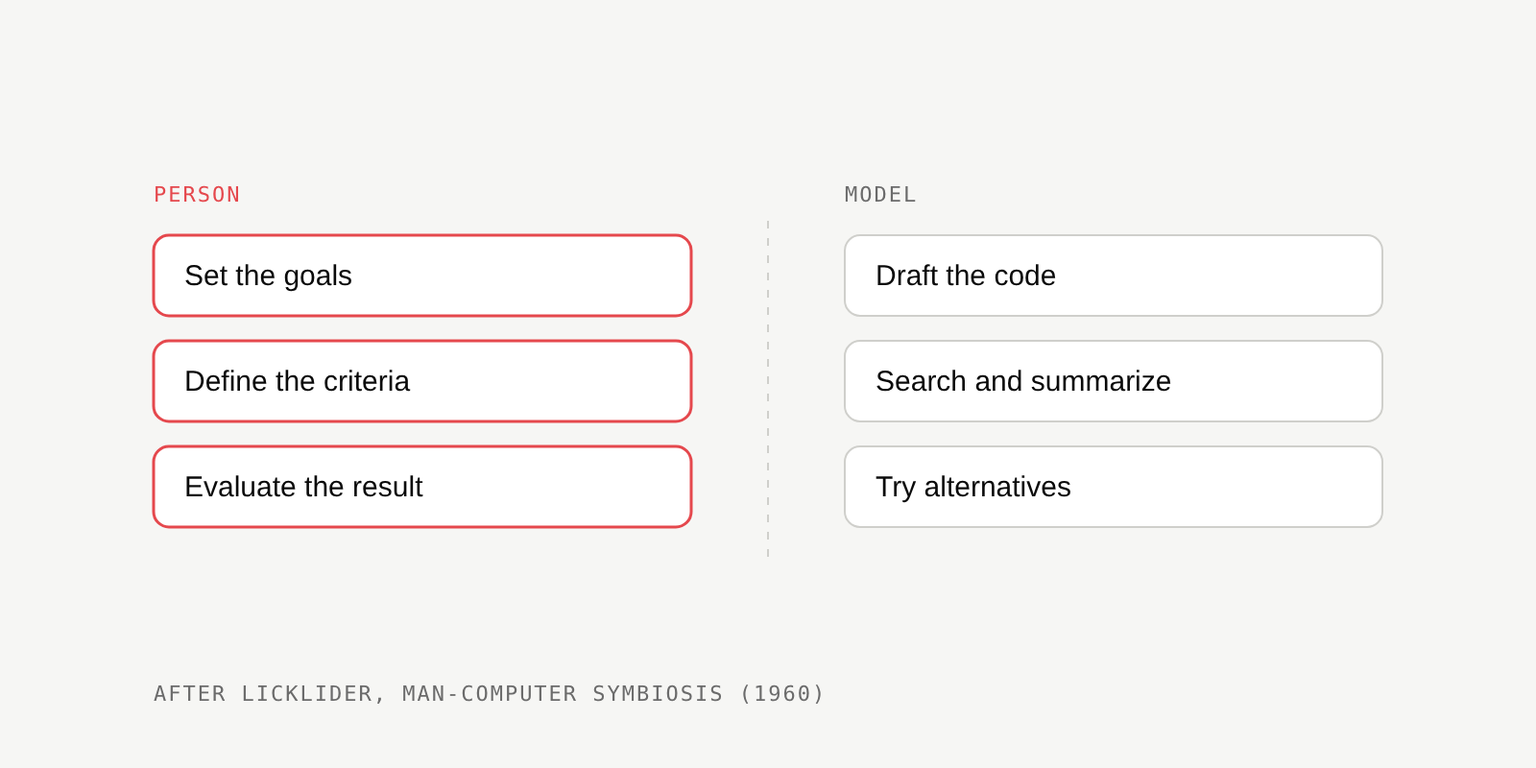
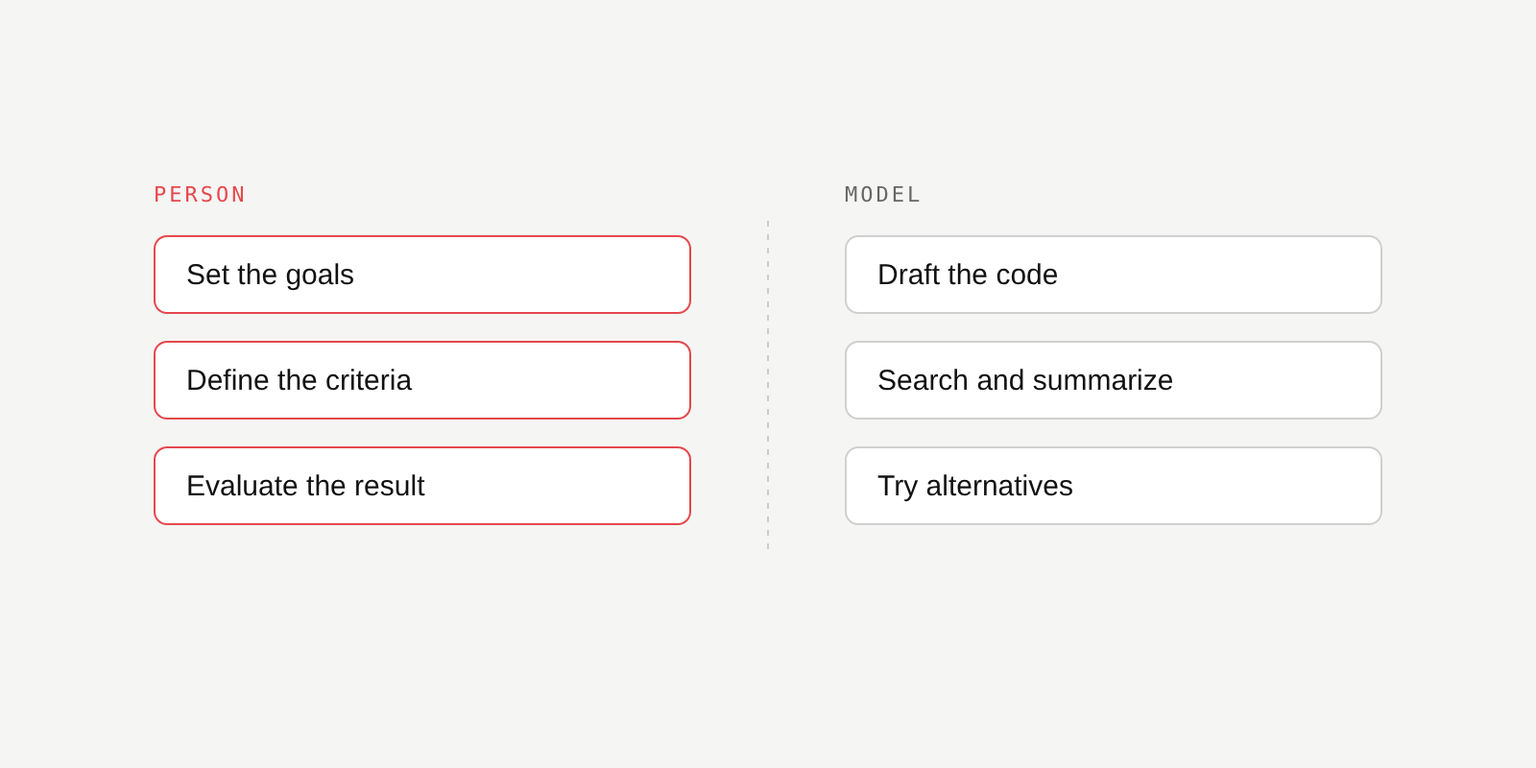
Blog: rewrite AI post in a casual voice, add Managed Agents post
Claude-Session: https://claude.ai/code/session_01K7XUSZr6t1E4M8D6w9ZakD

diff --git a/content/blog/ai-changed-where-i-spend-my-time.pt.md b/content/blog/ai-changed-where-i-spend-my-time.pt.md
@@ -1,43 +1,37 @@
-Hoje quase todo código que entra nos meus projetos passa por um modelo antes de passar por mim. E nunca trabalhei tanto com a cabeça. A IA não diminuiu o trabalho: ela tirou o gargalo do teclado e colocou na decisão. Digitar ficou barato. Decidir o que vale a pena escrever ficou caro.
+Hoje quase toda linha de código que entra nos meus projetos passa por um modelo antes de passar por mim. Dá para achar que isso significa trabalhar menos. É o contrário: nunca trabalhei tanto com a cabeça. Digitar ficou barato. Decidir o que vale a pena digitar ficou caro.
 
 ## Rápido no novo, lento no antigo
 
-Em 1975, Fred Brooks escreveu a lei mais citada da engenharia de software: "Adding manpower to a late software project makes it later." (*The Mythical Man-Month*).
+Imagina contratar alguém ótimo no que faz, mas que esquece tudo de um dia para o outro. Toda manhã você explica o projeto do zero, onde fica cada coisa e por que existe aquela regra estranha. Trabalhar com um modelo de IA é isso. O Fred Brooks percebeu algo parecido décadas atrás, quando disse que colocar mais gente num projeto de software atrasado só atrasa mais: quem chega precisa aprender o contexto, e quem já está lá para tudo para explicar.
 
-A razão é que quem chega precisa aprender o contexto, e quem já está no projeto para de trabalhar para explicar. Um modelo de IA é o colega que chega todo dia sem lembrar de nada.
-
-No meu dia a dia é exatamente assim. Um script de migração ou um componente novo sai em minutos, porque não depende de história nenhuma. Uma mudança numa regra antiga do meu SaaS, que depende de decisões tomadas anos atrás, demora o mesmo tempo de sempre, só que agora eu gasto esse tempo explicando o contexto e lendo o que o modelo escreveu.
+No meu dia a dia é exatamente assim. Um script de migração ou um componente novo sai em minutos, porque não depende de história nenhuma. Mudar uma regra antiga do meu SaaS, que depende de decisões tomadas anos atrás, leva o mesmo tempo de sempre. A diferença é que agora eu gasto esse tempo explicando contexto e lendo o que o modelo escreveu.
 
 ## O gargalo saiu do teclado
 
-Brian Kernighan avisou, ainda nos anos 70, onde mora o trabalho difícil: "Everyone knows that debugging is twice as hard as writing a program in the first place." (Brian Kernighan e P. J. Plauger, *The Elements of Programming Style*, 1978).
+Pensa em cozinhar com um amigo que pica tudo em dois minutos. O jantar não fica pronto mais rápido se você ainda precisa conferir cada pedaço para ver se ele cortou do jeito que a receita pedia. Picar ficou barato; conferir, não.
 
-Com IA, escrever quase não custa nada. O que sobra é ler, entender e consertar, que é justamente a parte difícil.
+Com código é igual. O Brian Kernighan dizia que todo mundo sabe que depurar é duas vezes mais difícil do que escrever o programa. Com IA, escrever quase não custa nada. O que sobra é ler, entender e consertar, que sempre foi a parte difícil.
 
 ![Página do diário do Harvard Mark II de 1947 com uma mariposa colada, o primeiro "bug" registrado](img:bug "O primeiro bug documentado, em 1947: alguém precisou encontrar")
 
-Minha rotina mudou de acordo. Antes eu abria o editor e começava a digitar. Hoje eu abro um diff de 300 linhas e preciso decidir, linha por linha, se aquilo é o que eu queria. Revisar bem exige saber como o código deveria ser antes de ver como ele está.
+Então minha rotina inverteu. Antes eu abria o editor e começava a digitar. Hoje eu abro um diff de 300 linhas e decido, linha por linha, se aquilo é o que eu queria. E só dá para revisar bem quando você sabe como o código deveria ser antes de ver como ele está.
 
-## Especificar virou a habilidade principal
+## Pedir bem virou a habilidade principal
 
-Brooks de novo, em 1986, muito antes de qualquer modelo de linguagem: "The hardest single part of building a software system is deciding precisely what to build." (*No Silver Bullet*).
+Já pediu para alguém "trazer alguma coisa para o jantar" e recebeu uma pizza congelada? Ninguém errou; você é que não foi claro. O modelo é assim: faz exatamente o que você pediu, mesmo quando você pediu mal. O Brooks também dizia que a parte mais difícil de construir software é decidir exatamente o que construir, e ele disse isso muito antes de alguém conversar com um modelo de linguagem.
 
-O modelo faz exatamente o que você pediu, inclusive quando você pediu errado. Um pedido vago volta como código plausível e genérico. Um pedido com contexto, restrições e um exemplo do resultado volta muito perto do que eu escreveria.
-
-Um exemplo concreto: quando peço "cria um endpoint de exportação", recebo algo genérico. Quando escrevo "exporta as faturas do mês em CSV, só para o dono da conta, em streaming para não estourar memória, e com o mesmo formato de data do relatório atual", recebo algo que entra no projeto com poucos ajustes. A diferença está no texto, não no modelo.
+Um exemplo real: quando peço "cria um endpoint de exportação", recebo algo genérico. Quando escrevo "exporta as faturas do mês em CSV, só para o dono da conta, em streaming para não estourar memória, e com o mesmo formato de data do relatório atual", recebo algo que entra no projeto com poucos ajustes. O modelo é o mesmo. O que mudou foi o texto.
 
 ## Onde eu não deixo a IA decidir
 
-Em 1960, J. C. R. Licklider imaginou a parceria entre pessoas e computadores e deixou claro quem fazia o quê: "Men will set the goals and supply the motivations" (*Man-Computer Symbiosis*).
-
-O modelo escreve com a mesma confiança quando acerta e quando erra, e é fácil confundir confiança com correção. Por isso a parte de definir o objetivo e julgar o resultado continua comigo.
+O modelo fala com a mesma confiança quando acerta e quando erra, igual aquele amigo que te passa o caminho com toda a certeza do mundo e te manda para o outro lado da cidade. É fácil confundir confiança com estar certo. O J. C. R. Licklider, que imaginou essa parceria entre pessoas e computadores quando computador ainda ocupava uma sala inteira, já tinha a divisão clara: as pessoas definem os objetivos e dão a motivação, a máquina faz o resto.
 
 ![Diagrama: a pessoa define objetivos, critérios e avaliação; o modelo rascunha, pesquisa e testa alternativas](img:goals "A divisão de Licklider aplicada ao meu dia a dia")
 
-Na prática tenho três regras. Esquema de banco e fronteiras entre serviços eu desenho primeiro, porque errar ali custa meses. Autenticação, permissões e qualquer coisa que toca dinheiro eu leio linha por linha. E código que eu não consigo explicar não entra, por mais que os testes passem.
+Na prática tenho três regras. Esquema de banco e fronteiras entre serviços eu desenho primeiro, e eu mesmo, porque errar ali custa meses. Autenticação, permissões e qualquer coisa que toca dinheiro eu leio linha por linha. E código que eu não consigo explicar não entra, por mais que os testes passem.
 
 ## Quando isso não vale
 
-Em código pequeno e descartável, revisar com esse cuidado é exagero: aceita, roda, joga fora. E para quem está começando, delegar cedo demais pula a parte que ensina. A IA acelera quem já sabe aonde quer chegar; quem ainda não sabe, ela leva com muita confiança na direção errada.
+Em código pequeno e descartável, esse cuidado todo é exagero. Um script para renomear um monte de arquivos? Aceita, roda, joga fora. E para quem está começando, entregar tudo cedo demais pula justamente a parte que ensina. A IA acelera quem já sabe aonde quer chegar. Quem ainda não sabe, ela leva para o lado errado, com muita confiança.
 
 No fim, a régua subiu. Escrever código deixou de ser o diferencial. Saber o que pedir, perceber o que está errado e dizer não continua sendo trabalho de gente.

diff --git a/content/blog/ai-changed-where-i-spend-my-time.en.md b/content/blog/ai-changed-where-i-spend-my-time.en.md
@@ -1,43 +1,37 @@
-Almost all the code that lands in my projects now goes through a model before it goes through me. And I've never worked this much with my head. AI didn't shrink the work: it moved the bottleneck from the keyboard to the decision. Typing got cheap. Deciding what's worth writing got expensive.
+These days almost every line of code that lands in my projects goes through a model before it goes through me. You'd think that means I work less. It's the opposite: I've never worked this much with my head. Typing got cheap. Deciding what's worth typing got expensive.
 
 ## Fast on new code, slow on old code
 
-In 1975, Fred Brooks wrote the most quoted law in software engineering: "Adding manpower to a late software project makes it later." (*The Mythical Man-Month*).
+Picture hiring someone who's great at the job but forgets everything overnight. Every morning you explain the project from scratch, where things live and why that weird rule exists. That's working with an AI model. Fred Brooks noticed something close to this decades ago, when he said that adding people to a late software project only makes it later: whoever arrives has to learn the context, and whoever's already there stops to explain it.
 
-The reason is that newcomers have to learn the context, and the people already on the project stop working to explain it. An AI model is the colleague who shows up every day remembering nothing.
-
-That's exactly my day. A migration script or a new component takes minutes, because it doesn't depend on any history. A change to an old rule in my SaaS, one that depends on decisions made years ago, takes as long as it always did, except now I spend that time explaining context and reading what the model wrote.
+That's exactly how my day goes. A migration script or a new component takes minutes, because it doesn't depend on any history. Changing an old rule in my SaaS, one that rests on decisions made years ago, takes as long as it always did. The difference is that now I spend that time explaining context and reading what the model wrote.
 
 ## The bottleneck left the keyboard
 
-Brian Kernighan warned back in the 70s where the hard work lives: "Everyone knows that debugging is twice as hard as writing a program in the first place." (Brian Kernighan and P. J. Plauger, *The Elements of Programming Style*, 1978).
+Think of cooking with a friend who chops everything in two minutes. Dinner doesn't get ready any faster if you still have to check every piece to see if they cut it the way the recipe asked. The chopping got cheap; the checking didn't.
 
-With AI, writing costs almost nothing. What's left is reading, understanding and fixing, which is exactly the hard part.
+Code works the same way. Brian Kernighan used to say that everyone knows debugging is twice as hard as writing the program in the first place. With AI, writing costs almost nothing. What's left is reading, understanding and fixing, which was always the hard part.
 
 ![A 1947 page from the Harvard Mark II logbook with a moth taped to it, the first recorded "bug"](img:bug "The first documented bug, 1947: someone had to find it")
 
-My routine changed accordingly. I used to open the editor and start typing. Now I open a 300-line diff and have to decide, line by line, whether it's what I wanted. Reviewing well means knowing what the code should look like before you see what it does look like.
+So my routine flipped. I used to open the editor and start typing. Now I open a 300-line diff and decide, line by line, whether it's what I wanted. And you can only review well if you know what the code should look like before you see what it actually looks like.
 
-## Writing the spec is the main skill now
+## Asking well is the main skill now
 
-Brooks again, in 1986, long before any language model: "The hardest single part of building a software system is deciding precisely what to build." (*No Silver Bullet*).
+Ever asked someone to "grab something for dinner" and got back a frozen pizza? Nobody did anything wrong; you just weren't clear. The model is like that: it does exactly what you asked, even when you asked badly. Brooks also said the hardest single part of building software is deciding precisely what to build, and he said it long before anyone was chatting with a language model.
 
-The model does exactly what you asked, including when you asked wrong. A vague prompt comes back as plausible, generic code. A prompt with context, constraints and an example of the result comes back very close to what I'd have written.
-
-A concrete example: when I ask for "an export endpoint", I get something generic. When I write "export this month's invoices as CSV, account owner only, streamed so it doesn't blow up memory, using the same date format as the current report", I get something that goes into the project with few changes. The difference is in the text, not in the model.
+A real example: when I ask for "an export endpoint", I get something generic. When I write "export this month's invoices as CSV, account owner only, streamed so it doesn't blow up memory, using the same date format as the current report", I get something that goes into the project with few changes. Same model. What changed was the text.
 
 ## Where I don't let AI decide
 
-In 1960, J. C. R. Licklider imagined a partnership between people and computers and was clear about who did what: "Men will set the goals and supply the motivations" (*Man-Computer Symbiosis*).
-
-The model writes with the same confidence when it's right and when it's wrong, and it's easy to mistake confidence for correctness. That's why setting the goal and judging the result stays with me.
+The model talks with the same confidence when it's right and when it's wrong, like that friend who gives you directions with total certainty and sends you to the wrong side of town. It's easy to mistake confidence for being correct. J. C. R. Licklider, who imagined this partnership between people and computers back when computers filled entire rooms, already had the split clear: people set the goals and supply the motivation, the machine does the rest.
 
 ![Diagram: the person sets goals, criteria and evaluation; the model drafts, searches and tries alternatives](img:goals "Licklider's split, applied to my day")
 
-In practice I keep three rules. I design the database schema and service boundaries first, because mistakes there cost months. Auth, permissions and anything that touches money, I read line by line. And code I can't explain doesn't ship, no matter how green the tests are.
+In practice I keep three rules. I design the database schema and the boundaries between services myself, first, because a mistake there costs months. Auth, permissions and anything that touches money, I read line by line. And code I can't explain doesn't ship, no matter how green the tests are.
 
 ## When this doesn't apply
 
-For small, throwaway code, reviewing this carefully is overkill: accept it, run it, delete it. And if you're just starting out, delegating too early skips the part that teaches you. AI speeds up people who already know where they're going; people who don't, it takes confidently in the wrong direction.
+For small, throwaway code, all this care is overkill. A script to rename a pile of files? Accept it, run it, delete it. And if you're just starting out, handing everything over too early skips the part that actually teaches you. AI speeds up people who already know where they're going. People who don't, it takes in the wrong direction, very confidently.
 
 In the end, the bar went up. Writing code stopped being the edge. Knowing what to ask for, spotting what's wrong and saying no is still a human job.

diff --git a/content/blog/keep-the-brain-away-from-the-hands.pt.md b/content/blog/keep-the-brain-away-from-the-hands.pt.md
@@ -1,0 +1,51 @@
+Eu estava lendo o post de engenharia da Anthropic sobre os Managed Agents, aquele com o subtítulo "desacoplando o cérebro das mãos", e no meio do texto parei para reler um parágrafo. Ele conta de uma correção que o time fez para um modelo antigo, e de como essa correção virou peso morto quando chegou um modelo mais novo. É o tipo de coisa que eu normalmente só percebo no meu próprio código meses depois. Então aqui vai o que ficou comigo, como alguém que constrói um SaaS e roda tudo na própria VPS.
+
+## O harness envelhece
+
+O harness é o loop em volta do modelo: chama o Claude, lê a resposta, executa as ferramentas que ele pediu e devolve os resultados. Todo harness carrega palpites sobre o que o modelo ainda não consegue fazer.
+
+O post dá um exemplo claro. Com o Claude Sonnet 4.5, o time viu o que chamou de "ansiedade de contexto": o modelo encerrava as tarefas antes da hora quando sentia a janela de contexto enchendo. Então eles colocaram resets de contexto no harness. No Claude Opus 4.5 o comportamento sumiu, e os resets viraram só código que ninguém mais precisava.
+
+A resposta do post não é um harness mais esperto. É um conjunto pequeno de interfaces que fica parado enquanto os harnesses por trás delas continuam mudando, que é bem o que o John Gall quis dizer quando falou que todo sistema complexo que funciona nasceu de um sistema simples que funcionava. Eles até comparam com um sistema operacional: "processo" e "arquivo" sobreviveram a todo hardware em que já rodaram.
+
+## Cérebro, mãos e um log
+
+O desenho divide um agente em três partes:
+
+- **Sessão**: um log só de escrita no final (append-only) com tudo o que aconteceu.
+- **Harness** (o cérebro): o loop que chama o modelo e encaminha as chamadas de ferramenta.
+- **Sandbox** (as mãos): onde o código roda e os arquivos são editados.
+
+![Diagrama: o harness lê e escreve no log da sessão e chama sandboxes e ferramentas por uma única interface execute](img:diagram "Cérebro, mãos e log, cada um trocável sozinho")
+
+Nos Managed Agents, toda mão parece igual para o cérebro: `execute(name, input) → string`. Um container, um servidor MCP ou, no exemplo deles, um emulador de Pokémon, todos atrás da mesma assinatura. Pensa numa tomada: você liga o carregador do celular, a chaleira ou o abajur, e a parede não quer saber qual é. O Aristóteles chamava a mão de "o instrumento dos instrumentos", e é exatamente esse o papel dela aqui.
+
+## Gado, não pet
+
+A primeira versão colocava as três partes num container só. Quem cuida de servidor sabe como isso termina. O container vira um pet: se ele morre, a sessão vai junto, e alguém precisa cuidar dele até voltar sem poder olhar dentro, porque ele guarda dados de usuário.
+
+Depois da separação, o container é gado. Se ele morre, o erro volta para o Claude como uma chamada de ferramenta que falhou, e um novo é criado. O harness também é gado: como o log fica fora dele, um harness novo chama `wake(sessionId)`, lê os eventos e continua do último.
+
+É a mesma regra que eu daria para qualquer um que roda o próprio servidor: o estado fica no banco e nos backups, nunca na máquina. Ver isso aplicado a agentes fez o desenho fazer sentido na hora.
+
+## As chaves ficam fora da sandbox
+
+No desenho acoplado, o código que o Claude escrevia rodava do lado das credenciais. Bastava um prompt injection que convencesse o modelo a ler o próprio ambiente.
+
+É como dar para a diarista uma senha da fechadura em vez de uma cópia da sua chave. A correção é estrutural. O token do git clona o repositório quando a sandbox começa e fica dentro do remote, então push e pull funcionam sem o agente nunca ver o token. Os tokens de MCP ficam num cofre e passam por um proxy. Nas palavras do post, "o harness nunca fica sabendo de nenhuma credencial."
+
+O Benjamin Franklin brincava que três pessoas conseguem guardar um segredo se duas delas estiverem mortas. Aqui ninguém precisa morrer: o agente não vaza um token que nunca viu. Gosto disso porque não depende do modelo se comportar bem. Tira dele a chance de se comportar mal.
+
+## O log não é a janela de contexto
+
+A parte que achei mais interessante é a diferença entre a sessão e a janela de contexto. Compactar e cortar contexto são decisões sem volta: você joga algo fora hoje sem saber se vai precisar amanhã. Nos Managed Agents, o log guarda tudo, e o harness escolhe o que entra na janela, com o `getEvents()` podendo ler pedaços, voltar e reler o que levou a um momento.
+
+Guardar é um trabalho e gerenciar contexto é outro. O primeiro precisa ser durável. O segundo pode mudar a cada modelo novo.
+
+## E ficou mais rápido
+
+Tirar o harness do container também deixou tudo mais rápido. Antes, toda sessão esperava um container subir, mesmo que nunca fosse usar. Agora o container só sobe quando uma ferramenta pede. O time conta que o tempo até o primeiro token caiu cerca de 60% na mediana e mais de 90% no p95.
+
+## O que eu levo disso
+
+Se eu fosse resumir numa linha: seja rígido no formato das interfaces e tranquilo com o que roda atrás delas. Vale para agentes e vale para o resto da stack. O modelo vai mudar, o harness vai mudar, a sandbox vai mudar. O log e o contrato entre eles são o que deve ficar.

diff --git a/content/blog/keep-the-brain-away-from-the-hands.en.md b/content/blog/keep-the-brain-away-from-the-hands.en.md
@@ -1,0 +1,51 @@
+I was reading Anthropic's engineering post on Managed Agents, the one with the subtitle "decoupling the brain from the hands", and halfway through I stopped to reread a paragraph. It describes a fix the team made for an old model, and how that fix turned into dead weight when a newer model arrived. That's the kind of thing I usually only notice in my own code months later. So here's what stuck with me, as someone who builds a SaaS and runs it on my own VPS.
+
+## Harnesses go stale
+
+A harness is the loop around the model: it calls Claude, reads the reply, runs the tools it asked for and sends the results back. Every harness carries guesses about what the model can't do yet.
+
+The post gives a clear example. With Claude Sonnet 4.5, the team saw what they call "context anxiety": the model wrapped up tasks early when it sensed the context window filling up. So they added context resets to the harness. With Claude Opus 4.5 the behavior was gone, and the resets were just code nobody needed anymore.
+
+The answer in the post isn't a smarter harness. It's a small set of interfaces that stay put while the harnesses behind them keep changing, which is pretty much what John Gall meant when he said that a complex system that works always grew out of a simple one that worked. They even compare it to an operating system: "process" and "file" outlived every piece of hardware they ran on.
+
+## Brain, hands and a log
+
+The design splits an agent into three parts:
+
+- **Session**: an append-only log of everything that happened.
+- **Harness** (the brain): the loop that calls the model and routes its tool calls.
+- **Sandbox** (the hands): where code runs and files get edited.
+
+![Diagram: the harness reads and writes the session log, and calls sandboxes and tools through one execute interface](img:diagram "Brain, hands and log, each replaceable on its own")
+
+In Managed Agents, every hand looks the same to the brain: `execute(name, input) → string`. A container, an MCP server or, in their example, a Pokémon emulator, all behind the same signature. Think of a power outlet: you plug in a phone charger, a kettle or a lamp, and the wall doesn't care which. Aristotle called the hand "the tool of tools", and that's exactly the job it does here.
+
+## Cattle, not pets
+
+The first version put all three parts in one container. Anyone who runs servers knows how that ends. The container becomes a pet: if it dies, the session goes with it, and someone has to nurse it back to health without being able to look inside, because it holds user data.
+
+After the split, the container is cattle. If it dies, the error comes back to Claude as a failed tool call, and a new one is provisioned. The harness is cattle too: since the log lives outside it, a new harness calls `wake(sessionId)`, reads the events and carries on from the last one.
+
+It's the same rule I'd give anyone running their own server: state lives in the database and in backups, never in the box itself. Seeing it applied to agents made the design click right away.
+
+## Keep the keys out of the sandbox
+
+In the coupled design, the code Claude wrote ran next to the credentials. One prompt injection that convinced the model to read its environment would have been enough.
+
+It's like giving the house cleaner a code for the front door instead of a copy of your keys. The fix is structural. The git token clones the repo when the sandbox starts and stays inside the git remote, so push and pull work without the agent ever seeing it. MCP tokens sit in a vault and go through a proxy. In the post's words, "the harness is never made aware of any credentials."
+
+Benjamin Franklin joked that three people can keep a secret if two of them are dead. Here nobody has to die: the agent can't leak a token it never saw. I like that because it doesn't depend on the model behaving well. It removes the chance to behave badly.
+
+## The log isn't the context window
+
+The part I found most interesting is the difference between the session and the context window. Compaction and trimming are decisions you can't undo: you throw something away today without knowing whether you'll need it tomorrow. In Managed Agents, the log keeps everything, and the harness picks what goes into the window, with `getEvents()` able to read slices, go back and reread what led to a moment.
+
+Storage is one job and context management is another. The first has to be durable. The second can change with every new model.
+
+## Faster too
+
+Taking the harness out of the container also made it faster. Before, every session waited for a container to start, even if it never used one. Now a container only starts when a tool asks for it. The team reports time to first token dropping about 60% at the median and more than 90% at p95.
+
+## What I'm taking from it
+
+If I were to sum it up in one line: be strict about the shape of the interfaces and relaxed about what runs behind them. It works for agents, and it works for the rest of the stack. The model will change, the harness will change, the sandbox will change. The log and the contract between them are what should stay.
